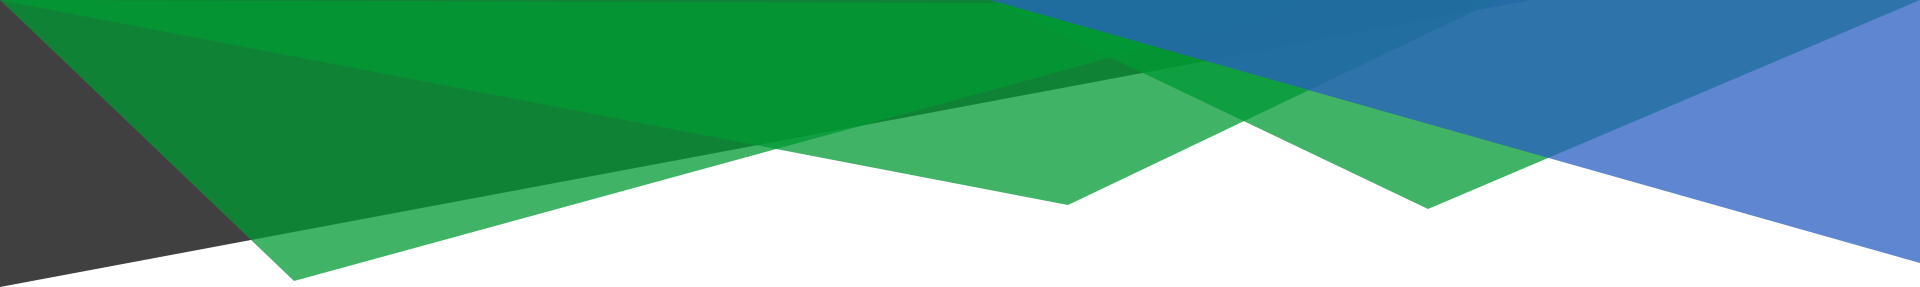
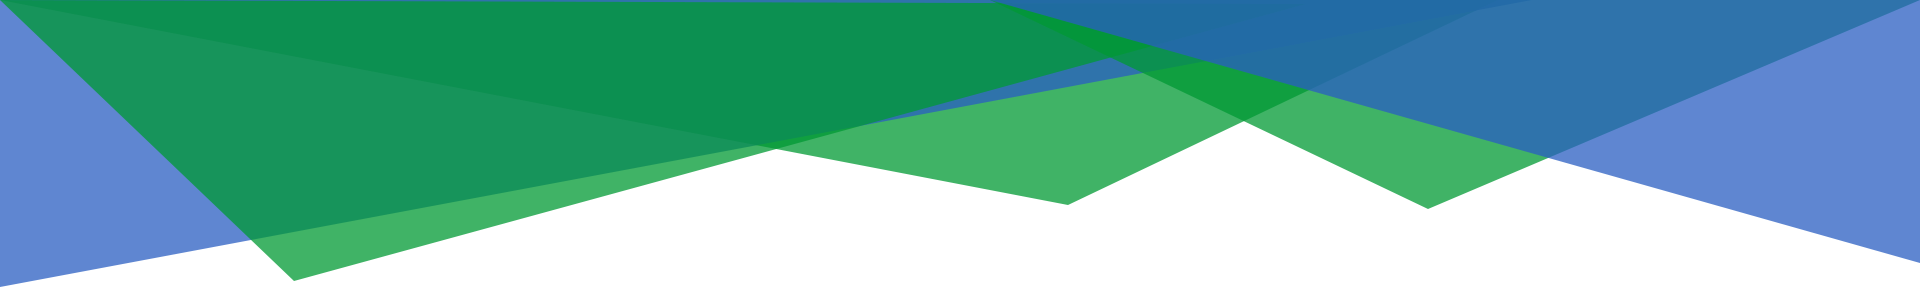
graphics shit

diff --git a/index.html b/index.html
@@ -32,7 +32,7 @@
 				<!-- <h1><a href="#main">C<span>o</span>nf</a></h1>-->
 				<a href="#intro" class="scrollto"><img src="img/logo-main-white.png" alt="" title=""></a>
 			</div>
-
+			
 			<nav id="nav-menu-container">
 				<ul class="nav-menu">
 					<li class="menu-active"><a href="#intro">Home</a></li>
@@ -46,10 +46,11 @@
 			</nav>
 		</div>
 	</header>
-
+	
 	<section id="intro">
 		<div class="intro-container wow fadeIn">
-			<h1 class="mb-4 pb-0">KAAFILA</h1>
+			<img class="mb-4 pb-0" height="150px" src="img/logo-main.png" alt="" title="">
+			<!-- <h1 class="mb-4 pb-0">KAAFILA</h1> -->
 			<h1 class="mb-4 pb-0 font-weight-normal" style="font-size: 30px; text-transform: none">Shiv Nadar School Noida's Integrated Arts festival </h1>
 			<a href="#about" class="about-btn scrollto">About the Event</a>
 		</div>

diff --git a/css/style.css b/css/style.css
@@ -478,7 +478,8 @@ body.mobile-nav-active #mobile-nav-toggle {
 
 #intro:before {
   content: "";
-  background: url("/img/bg-banner-bottom.png") no-repeat center bottom, url("/img/bg-banner-top.png") no-repeat center top, rgba(255,255,255);
+  background: url("/img/bg-banner-bottom.png") no-repeat center bottom, url("/img/bg-banner-top.png") no-repeat center top, rgb(255, 255, 255);
+  background-size: 100vw;
   position: absolute;
   bottom: 0;
   top: 0;
